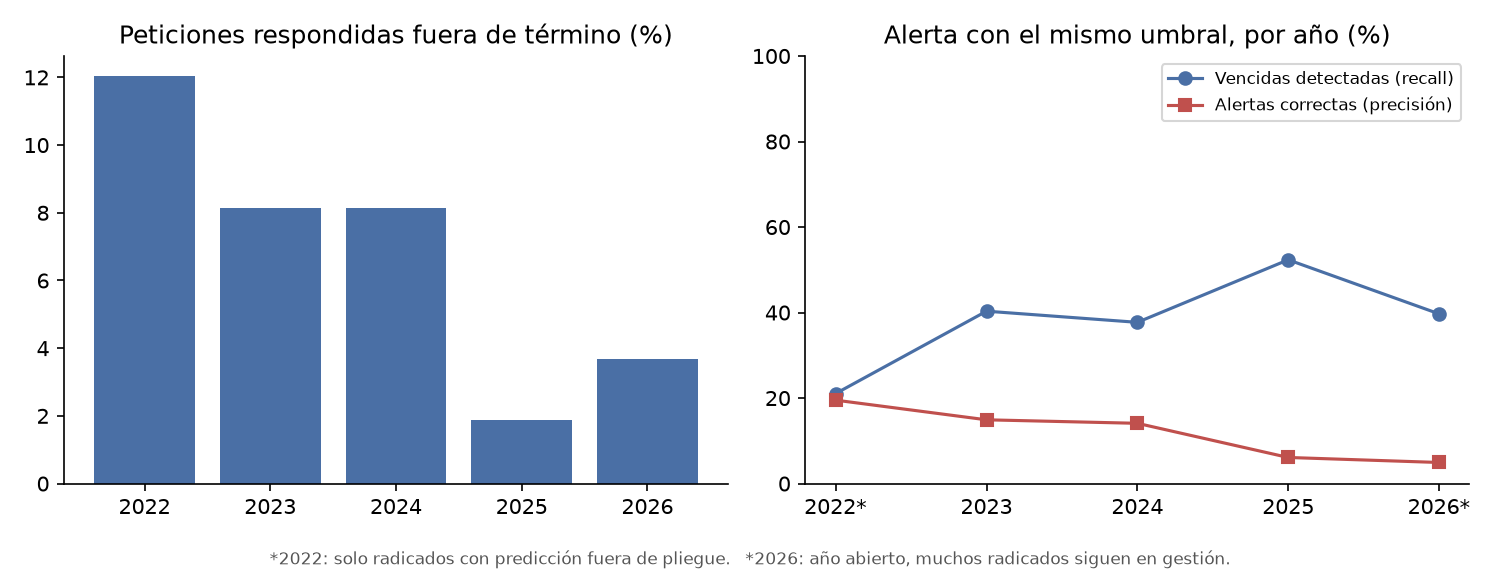
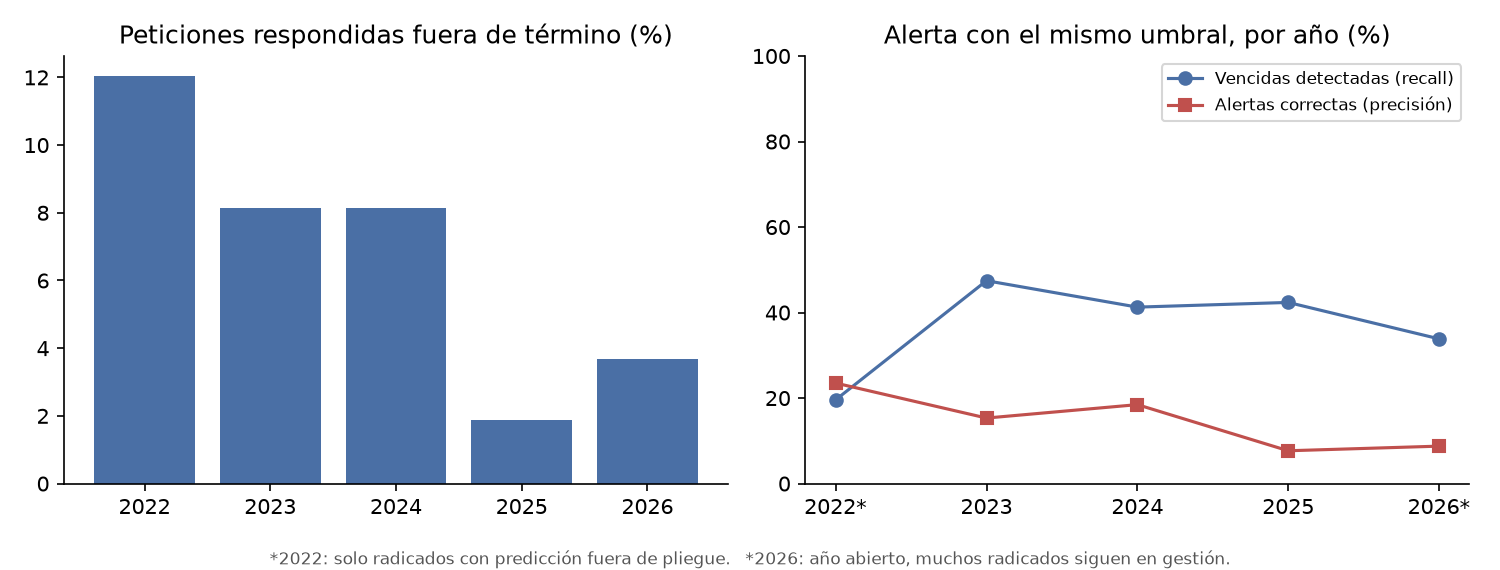
Reentrena: gana la regresión logística C=0,01 con AP temporal 0,195

diff --git a/entrenar.py b/entrenar.py
@@ -34,7 +34,7 @@ from src.modelo import (FRACCION_ALERTA, comparar, construir, elegir, metricas, 
 RAIZ = Path(__file__).resolve().parent
 RES = RAIZ / "resultados"
 RUTA_MODELO = RAIZ / "modelos" / "modelo.joblib"
-ELEGIDO_POR_DEFECTO = ("Regresión logística", "C=1.0")
+ELEGIDO_POR_DEFECTO = ("Regresión logística", "C=0.01")
 
 
 def coeficientes(pipe) -> pd.DataFrame:
